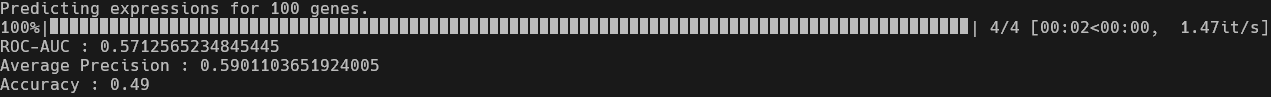
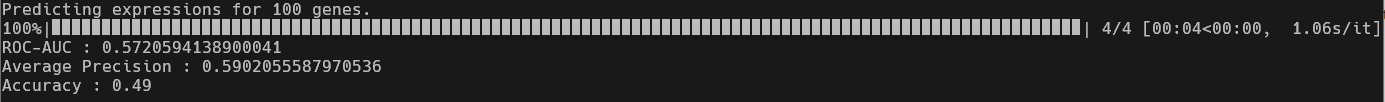
update demo

diff --git a/demo/run_demo.py b/demo/run_demo.py
@@ -1,81 +1,84 @@
 import argparse
 import torch
-import torch.nn as nn
-import torch.nn.functional as F
-import os
 
 import numpy as np
 import pandas as pd
-import yaml
 
-from data import Roadmap3D
+from chromoformer import ChromoformerDataset
+from chromoformer import ChromoformerClassifier
 from net import Chromoformer
-from collections import defaultdict
 from tqdm import tqdm
-from pathlib import Path
 from sklearn import metrics
 
 from util import seed_everything
 
 # Argument parsing.
 parser = argparse.ArgumentParser()
-parser.add_argument('-i', '--input', help='Path to input metadata file.', required=True)
-parser.add_argument('-o', '--output', help='Path to output expression prediction.', required=True)
-parser.add_argument('-w', '--weights', help='Path to pretrained Chromoformer weights in .pt format.', default=None)
-parser.add_argument('-e', '--eid', help='Specify cell type in EID.', required=True)
+parser.add_argument("-m", "--meta", help="Path to input metadata file.", required=True)
+parser.add_argument(
+    "-d",
+    "--npy-dir",
+    help="Path to directory containing histone signals in .npy files.",
+    required=True,
+)
+parser.add_argument("-o", "--output", help="Path to output expression prediction.", required=True)
+parser.add_argument(
+    "-w", "--weights", help="Path to pretrained Chromoformer weights in .pt format.", default=None
+)
 args = parser.parse_args()
 
 #
 # Parameter definitions.
 #
 seed = 123
-num_epoch = 10
 bsz = 32
-
 i_max = 8
 w_prom = 40000
 w_max = 40000
-
 n_feats = 7
-embed_n_layers = 1
-embed_n_heads = 2
-embed_d_model = 128
-embed_d_ff = 128
-
-pw_int_n_layers = 2
-pw_int_n_heads = 2
-pw_int_d_model = 128
-pw_int_d_ff = 256
-
-reg_n_layers = 6
-reg_n_heads = 8
-reg_d_model = 256
-reg_d_ff = 256
-
-head_n_feats = 128
+d_emb = 128
+embed_kws = {
+    "n_layers": 1,
+    "n_heads": 2,
+    "d_model": 128,
+    "d_ff": 128,
+}
+pairwise_interaction_kws = {
+    "n_layers": 2,
+    "n_heads": 2,
+    "d_model": 128,
+    "d_ff": 256,
+}
+regulation_kws = {
+    "n_layers": 6,
+    "n_heads": 8,
+    "d_model": 256,
+    "d_ff": 256,
+}
+d_head = 128
 
 seed_everything(seed)
 
-meta = pd.read_csv(args.input)
-meta = meta[meta.eid == args.eid]
-
+meta = pd.read_csv(args.meta)
 genes = meta.gene_id.tolist()
 n_genes = len(genes)
 
-print(f'Predicting expressions for {n_genes} genes.')
+print(f"Predicting expressions for {n_genes} genes.")
 
-test_dataset = Roadmap3D(args.input, args.eid, genes, i_max, w_prom, w_max)
-test_loader = torch.utils.data.DataLoader(test_dataset, batch_size=bsz, num_workers=8, shuffle=False, drop_last=False)
+test_dataset = ChromoformerDataset(
+    args.meta, args.npy_dir, genes, i_max, w_prom=w_prom, w_max=w_max
+)
+test_loader = torch.utils.data.DataLoader(
+    test_dataset, batch_size=bsz, num_workers=8, shuffle=False, drop_last=False
+)
 
 # Load pretrained weights.
-model = Chromoformer(
-    n_feats, embed_n_layers, embed_n_heads, embed_d_model, embed_d_ff,
-    pw_int_n_layers, pw_int_n_heads, pw_int_d_model, pw_int_d_ff,
-    reg_n_layers, reg_n_heads, reg_d_model, reg_d_ff, head_n_feats,
+model = ChromoformerClassifier(
+    n_feats, d_emb, d_head, embed_kws, pairwise_interaction_kws, regulation_kws, seed=seed
 )
 if args.weights is not None:
-    ckpt = torch.load(args.weights, map_location='cpu')
-    model.load_state_dict(ckpt['net'])
+    ckpt = torch.load(args.weights, map_location="cpu")
+    model.load_state_dict(ckpt["net"])
 model.cuda()
 
 bar = tqdm(enumerate(test_loader, 1), total=len(test_loader))
@@ -85,13 +88,19 @@ model.eval()
 with torch.no_grad():
     for batch, d in bar:
         for k, v in d.items():
-            d[k] = v.cuda()
-        
+            if isinstance(v, dict):
+                for _k, _v in v.items():
+                    v[_k] = _v.cuda()
+            else:
+                d[k] = v.cuda()
+
         out = model(
-            d['x_p_2000'], d['pad_mask_p_2000'], d['x_pcre_2000'], d['pad_mask_pcre_2000'], d['interaction_mask_2000'],
-            d['x_p_500'], d['pad_mask_p_500'], d['x_pcre_500'], d['pad_mask_pcre_500'], d['interaction_mask_2000'],
-            d['x_p_100'], d['pad_mask_p_100'], d['x_pcre_100'], d['pad_mask_pcre_100'], d['interaction_mask_2000'],
-            d['interaction_freq'],
+            d["promoter_feats"],
+            d["promoter_pad_masks"],
+            d["pcre_feats"],
+            d["pcre_pad_masks"],
+            d["interaction_masks"],
+            d["interaction_freq"],
         )
 
         predictions.append(torch.sigmoid(out.cpu()).numpy()[:, 1])
@@ -99,7 +108,7 @@ with torch.no_grad():
 predictions = np.concatenate(predictions)
 
 # Write table annotated with Chromoformer prediction.
-meta['prediction'] = predictions
+meta["prediction"] = predictions
 meta.to_csv(args.output, index=False)
 
 # Report.
@@ -107,6 +116,6 @@ auc = metrics.roc_auc_score(meta["label"], meta["prediction"])
 ap = metrics.average_precision_score(meta["label"], meta["prediction"])
 acc = metrics.accuracy_score(meta["label"], (meta["prediction"] > 0.5).astype(int))
 
-print(f'ROC-AUC : {auc}')
-print(f'Average Precision : {ap}')
-print(f'Accuracy : {acc}')
+print(f"ROC-AUC : {auc}")
+print(f"Average Precision : {ap}")
+print(f"Accuracy : {acc}")

diff --git a/chromoformer/__init__.py b/chromoformer/__init__.py
@@ -1,1 +1,2 @@
 from chromoformer.net import ChromoformerClassifier, ChromoformerRegressor
+from chromoformer.data import ChromoformerDataset

diff --git a/demo/README.md b/demo/README.md
@@ -50,21 +50,18 @@ You can now run the gene expression prediction for the 100 genes simply by the s
 In the commandline (with the `chromoformer` environment enabled), run the following command, and it will finish shortly (~10s):
 
 ```shell
-python run_demo.py \
-    -i demo_meta.csv \
-    -o demo_meta.predicted.csv \
+python run_demo.py -m demo_meta.csv -d demo_data -o demo_meta.predicted.csv \
     -w chromoformer-reproduction-E003-conf1-fold1.pt \
-    -e E003
 ```
 
 *Warning*: Please note that the provided demo script (`run_demo.py`) expects GPU-enabled environment, otherwise it may throw error. 
 
 Parameters for `run_demo.py` are described as below:
 
-- `-i, --input` : Path to input metadata CSV file.
-- `-o, --output` :  Path to output metadata annotated with 'prediction column'.
+- `-m, --meta` : Path to input metadata CSV file.
+- `-d, --npy-dir` : Path to directory containing region-wise histone modification levels in .npy format.
 - `-w, --weights` : Path to pretrained Chromoformer weights in .pt format
-- `-e, --eid` : Specify cell type in Roadmap Epigenomics EID.
+- `-o, --output` :  Path to output metadata annotated with 'prediction column'.
 
 
 ### Expected result
@@ -82,10 +79,7 @@ This can be simply examined by comparing the performance with untrained/fresh mo
 You can run the prediction using a newly-initialized (i.e., untrained) Chromoformer model and compare the results.
 
 ```shell
-python run_demo.py \
-    -i demo_meta.csv \
-    -o demo_meta.predicted.csv \
-    -e E003
+python run_demo.py -m demo_meta.csv -d demo_data -o random_prediction.out
 ```
 
 ### Expected result
